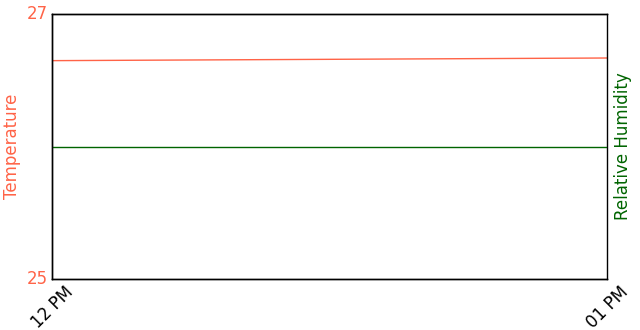
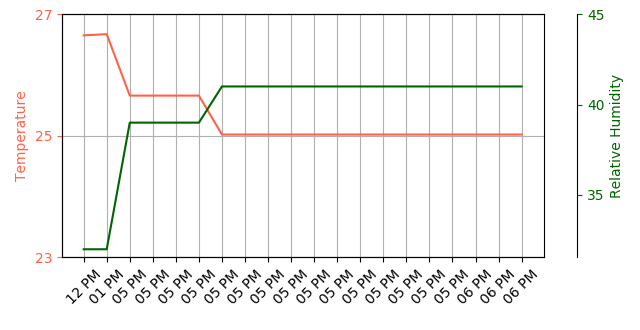
Changs to the plot image displayed on the main screen

Changed region(s): [[0.0, 0.0, 1.0, 1.0], [0.3438, 0.2424, 0.8125, 0.2727]]

diff --git a/tk.py b/tk.py
@@ -235,18 +235,6 @@ class timers(object):
 			timer_status_1.set(str(timer_time_string))
 			timer_status.set("Please enter a time, recurrence rate and timer length")
 		
-def new_win_isp(): # Simple Internet-Speed-Plot window no need for a class.
-	global speed_image
-	isp_win = Toplevel(root)
-	speed_img = ImageTk.PhotoImage(Image.open(speed_image))#/home/pi/html/
-	speed_panel = Label(isp_win, image = speed_img)
-	speed_panel.image = speed_img
-	isp_win_close_button = Button(isp_win,text="Close Window",command=isp_win.destroy, height = 3, width = 15)
-	isp_win_close_button.grid()
-	speed_panel.grid()
-	
-	isp_win.attributes('-fullscreen',True)
-	
 
 def timer(): # Simple timer class, 
 	try: # If any errors usually due to no input pass
@@ -309,9 +297,11 @@ def img_updater(): # Auto image updater for home screen.
 	# Open image
 		try:
 			global counter
-			plant_stat_img = ImageTk.PhotoImage(Image.open(plot_img))
-			plant_stat_panel.config(image = plant_stat_img)
-			plant_stat_panel.image = plant_stat_img
+
+			
+
+			
+			
 			timer_set_time,time_until_run = csv_read()
 
 			if GPIO.input(23) == 0:
@@ -325,8 +315,20 @@ def img_updater(): # Auto image updater for home screen.
 			counter += 1
 			if counter >= 1:
 				timer_status_1.set(str(timer_set_time))
+				
+				plant_stat_img = ImageTk.PhotoImage(Image.open(plot_img))
+				plant_stat_panel.config(image = plant_stat_img)
+				plant_stat_panel.image = plant_stat_img
+			
+				
 			if counter >= 11:
 				timer_status_1.set(str(time_until_run))
+				
+				speed_img = ImageTk.PhotoImage(Image.open(speed_image))#/home/pi/html/
+				plant_stat_panel.config(image = speed_img)
+				plant_stat_panel.image = speed_img
+				
+
 			if counter >= 21:
 				counter = 0
 			
@@ -404,7 +406,7 @@ keyboard_img = ImageTk.PhotoImage(Image.open(keyboard_image))
 keyboard_button.config(image=keyboard_img)
 keyboard_button.image = keyboard_img
 keyboard_button.grid(row = 2,sticky=E)
-isp_button = Button(root,text= "Speed Plot", command = new_win_isp, height = 3, width = 15).grid(row = 5, sticky=N,column =2)
+
 timer_button = Button(root,text= "Set Timer", command = timers, height = 3, width = 15).grid(row = 5,column =2)
 pump_timer_start_button=Button(root,text="Start Pump Timer",command = timer).grid(row = 2, sticky=W)
 

diff --git a/plot.py b/plot.py
@@ -7,8 +7,6 @@ import matplotlib
 matplotlib.use('Agg') ## This helps output the image???
 import matplotlib.pyplot as plt
 import numpy as np
-from matplotlib import rcParams
-import matplotlib.ticker as ticker
 import math
 import csv
 
@@ -56,7 +54,7 @@ def plot_data():
 		plt.grid()							## set the grit behind the plot
 		#s1 = np.arange(1,len(time)+1)		## setting the lenght of x and the spacing/occorance but it has already been done..
 		ax1.plot(x, pertemp, c='#FF6347', label='Balcony Temp') ##palctemp		## setting the plot line, x for the bottom points, temp to take the y points on the plot, color
-		ax1.set_xlabel('Time of day')		## set the x spine lable
+		#ax1.set_xlabel('Time of day')		## set the x spine lable
 		ax1.set_ylabel('Temperature', color='#FF6347')	# Make the y-axis label, ticks and tick labels match the line color.
 		ax1.tick_params('y', colors='#FF6347')	## set the ???? work it out later?
 		ax1.set_yticks(np.arange(round(min(pertemp))-2, max(pertemp)+2, 2.0))	## set the arangment of y ticks max and minimum, I have rounded the
@@ -76,7 +74,8 @@ def plot_data():
 
 		fig.tight_layout()
 		fig.set_size_inches(6.4, 3.30)
+		plt.gcf().subplots_adjust(bottom=0.22)
 		plt.savefig(plot_image, dpi=100)	# save the figure to file
-		print ("\nPlot Complete...")
+		print ("Weather Plot Complete...")
 	except TypeError:
 		pass

diff --git a/speedapi.py b/speedapi.py
@@ -13,8 +13,6 @@ import matplotlib
 matplotlib.use('Agg')
 import matplotlib.pyplot as plt
 import numpy as np
-from matplotlib import rcParams
-import matplotlib.ticker as ticker
 import math
 import shutil
 
@@ -165,7 +163,7 @@ def main():
 	ax3.plot(x, ping_time, c = '#006400', linestyle=':',label='Ping API')
 	ax3.set_ylabel('Ping', color='#006400')
 	ax3.tick_params('y', colors='#006400')
-	ax3.set_yticks(np.arange(0, maxping +150,10))
+	ax3.set_yticks(np.arange(0, maxping +150,20))
 	ax3.spines['right'].set_position(('axes', 1.15))
 	
 	
@@ -176,7 +174,9 @@ def main():
 	plt.legend(h1+h2+h3, l1+l2+l3, loc=1)
 	# Setup the legend
 	fig.tight_layout()
-	fig.set_size_inches(8.4, 4.45)
+	fig.set_size_inches(6.4, 3.30)
+	plt.gcf().subplots_adjust(bottom=0.3)
+
 	
 	try:
 		plt.savefig(speed_img, dpi=100)	# save the figure to file
@@ -186,5 +186,4 @@ def main():
 		
 	print ("Plot Complete...\nDownload: {} Mbps\nUpload: {} Mbps\nPing: {}s\nTime: {}"\
 	.format(str(downspeed[-1]),str(upspeed[-1]),str(ping_time[-1]),str(time.strftime("%I %p"))))
-	print ("Waiting an hour before testing again.\n")
 

diff --git a/status.py b/status.py
@@ -20,7 +20,7 @@ GPIO.output(22, 1)                                                              
 
 # Status data
 # E-mail settings
-
+email_data = "/home/pi/wateringsys/email_data.txt"
 def get_data():
 	fp = open(email_data)
 	login = ""
@@ -176,9 +176,11 @@ if __name__ == "__main__":
 		# Once the list has been cut down to 24 again including the new data, write to the csv file again
 		# ready for reading next time.
 		csv_writer(time_list,temp_list,humid_list,water_list)
-		# Make the plot image.
-		speedapi.main()
+		# Make the plot images.
 		plot.plot_data()
+		speedapi.main()
+		
+		print ("Waiting an hour before testing again.\n")
 		
 	# Run the mail job first.	
 	main_job()
